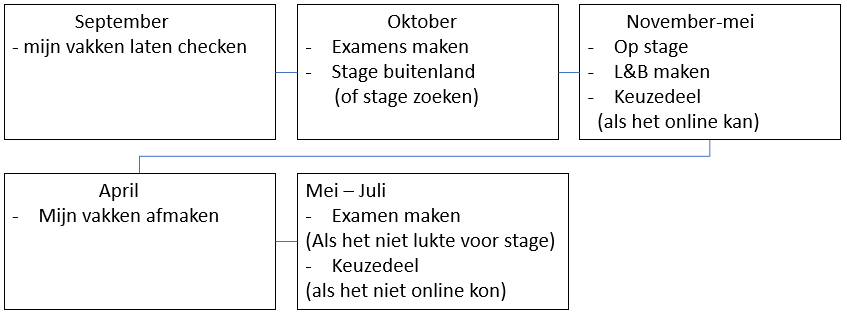
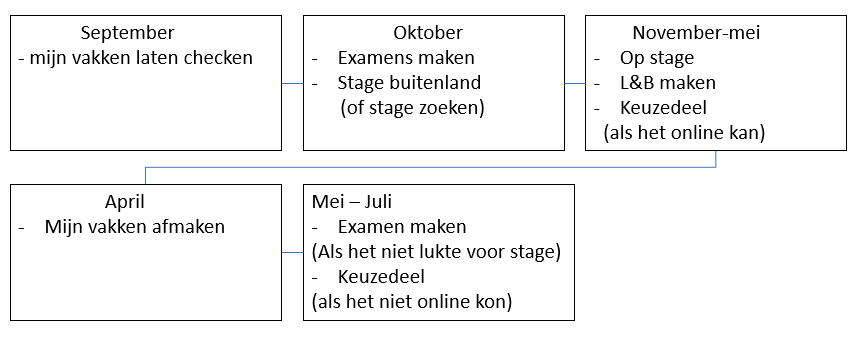
fixed

Changed region(s): [[0.0, 0.0, 1.0, 0.4842], [0.0, 0.4842, 0.6753, 0.9968]]

diff --git a/index.html b/index.html
@@ -18,6 +18,7 @@
     float: right;
     margin-right: 40px;
     margin-top: 20px;
+    border-style: solid;
     
 }
 
@@ -29,7 +30,7 @@
 }
 
 body{
-    background-color: white;
+    background-color: navajowhite;
 }
 
 .reflectie{
@@ -66,7 +67,7 @@ body{
 
 
 <div class="Schema">  
-    <img src="stage.png" width="600" height="360" alt="agenda">
+    <img src="stage.png" width="600" height="320" alt="agenda">
 </div>
 
 
